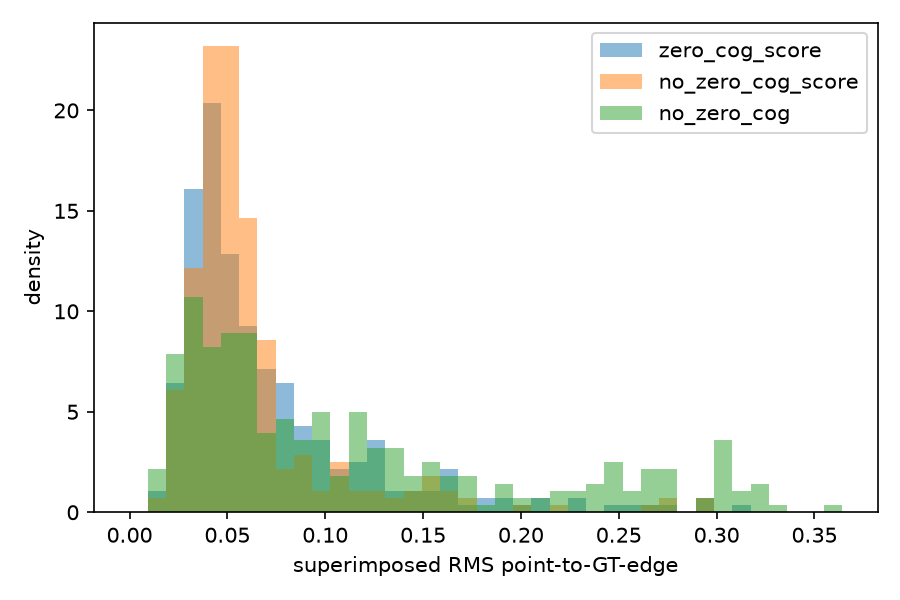
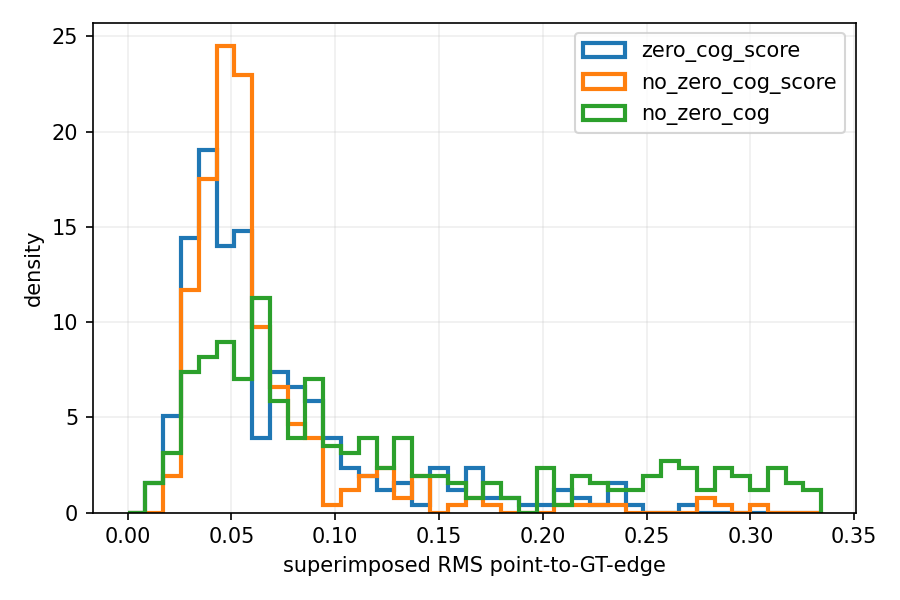
Refactor device management and enhance progress tracking in shape evaluation and training scripts
- Introduced a new `device.py` module for centralized device management.
- Updated various scripts to utilize `get_default_device()` for consistent device selection.
- Enhanced progress tracking in `evaluate_shape.py` and `train.py` with `tqdm` for better user feedback during computations.
- Adjusted triangle residual calculations and visualizations to reflect updated metrics.

diff --git a/src/evaluate_shape.py b/src/evaluate_shape.py
@@ -7,12 +7,14 @@ import torch
 import matplotlib.pyplot as plt
 from scipy.spatial import ConvexHull
 from scipy.stats import ks_2samp, wasserstein_distance
+from tqdm.auto import tqdm
  
 import lightning as L  # noqa: F401  (kept for parity with training env)
 from src.lit.litGNN import LitVanillaGNN
 from src.diffusion import TDMDiffusion
 from src.nn.vanillaGNN import TDM_VanillaGNN  # noqa: F401
 import src.data as data
+from src.device import get_default_device, module_device
  
  
 # ---------------------------------------------------------------------------
@@ -174,17 +176,19 @@ def triangle_residual(p, L):
     return d.mean()
  
  
-def residuals(clouds, L, name=""):
-    r = np.array([triangle_residual(c, L) for c in clouds])
+def residuals(clouds, L, name="", show_progress=False):
+    cloud_iter = tqdm(clouds, desc=f"{name} residuals", leave=False) if show_progress else clouds
+    r = np.array([triangle_residual(c, L) for c in cloud_iter])
     finite = np.isfinite(r)
     print(f"  [{name}] dropped {(~finite).sum()}/{len(r)} as cell-spanning/invalid")
     return r[finite]
 
 
-def paired_superimposed_rms(gen_clouds, gt_clouds, L, name="", n_angles=180):
+def paired_superimposed_rms(gen_clouds, gt_clouds, L, name="", n_angles=180, show_progress=False):
     n = min(len(gen_clouds), len(gt_clouds))
+    idx_iter = tqdm(range(n), desc=f"{name} superimposed RMS", leave=False) if show_progress else range(n)
     r = np.array([superimposed_rms_point_to_edge(gen_clouds[i], gt_clouds[i], L, n_angles=n_angles)
-                  for i in range(n)])
+                  for i in idx_iter])
     finite = np.isfinite(r)
     print(f"  [{name}] superimposed dropped {(~finite).sum()}/{len(r)} invalid pairs")
     return r[finite]
@@ -196,7 +200,8 @@ def paired_superimposed_rms(gen_clouds, gt_clouds, L, name="", n_angles=180):
 if __name__ == "__main__":
  
     # ---- load checkpoints --------------------------------------------------
-    DEVICE = torch.device("cuda" if torch.cuda.is_available() else "cpu")
+    DEVICE = get_default_device()
+    print(f"[device] selected default device: {DEVICE}")
 
     gnn_no_zero_cog = LitVanillaGNN.load_from_checkpoint(
         "checkpoints/20260623_173456/ptiGNN_shapes_triangle_no_zero_cog/last.ckpt",
@@ -236,6 +241,13 @@ if __name__ == "__main__":
         dim=2, integrator_type="Euler",
         simplified_param=True, zero_cog=True, zero_cog_score=False,
     ).to(DEVICE)
+
+    print(f"[device] gnn_no_zero_cog: {module_device(gnn_no_zero_cog)}")
+    print(f"[device] gnn_zero_cog_score: {module_device(gnn_zero_cog_score)}")
+    print(f"[device] gnn_no_zero_cog_score: {module_device(gnn_no_zero_cog_score)}")
+    print(f"[device] tdm_model: {module_device(tdm_model)}")
+    print(f"[device] tdm_model_no_zero_cog_score: {module_device(tdm_model_no_zero_cog_score)}")
+    print(f"[device] tdm_model_no_zero_cog: {module_device(tdm_model_no_zero_cog)}")
  
     # ---- sample both groups ------------------------------------------------
     graph_num = 300
@@ -254,16 +266,26 @@ if __name__ == "__main__":
         predictor_corrector_n_steps=20,
         only_correct_vt=True,
         tau=1e-2,
+        verbose_device=True,
     )
  
     (ft_list, vt_list, t_list) = tdm_model.sample_backward_graph(
-        tdm_score_fn=gnn_zero_cog_score.forward_from_data, **sample_kwargs
+        tdm_score_fn=gnn_zero_cog_score.forward_from_data,
+        progress=True,
+        progress_desc="sample zero_cog_score",
+        **sample_kwargs
     )
     (ft_list_no, vt_list_no, t_list_no) = tdm_model_no_zero_cog_score.sample_backward_graph(
-        tdm_score_fn=gnn_no_zero_cog_score.forward_from_data, **sample_kwargs
+        tdm_score_fn=gnn_no_zero_cog_score.forward_from_data,
+        progress=True,
+        progress_desc="sample no_zero_cog_score",
+        **sample_kwargs
     )
     (ft_list_no_zero_cog, vt_list_no_zero_cog, t_list_no_zero_cog) = tdm_model_no_zero_cog.sample_backward_graph(
-        tdm_score_fn=gnn_no_zero_cog.forward_from_data, **sample_kwargs
+        tdm_score_fn=gnn_no_zero_cog.forward_from_data,
+        progress=True,
+        progress_desc="sample no_zero_cog",
+        **sample_kwargs
     )
  
     f0 = ft_list[-1]                  # generated shapes at t = 0
@@ -276,7 +298,7 @@ if __name__ == "__main__":
     # the model is sampled in, and every source shares one period L = 2*pi.
     gt_ds = data.Shapes_Dataset(shape_types=["triangle"], num_points=64, seed=0)
     gt_clouds = []
-    for i in range(min(graph_num, len(gt_ds))):
+    for i in tqdm(range(min(graph_num, len(gt_ds))), desc="prepare GT clouds", leave=False):
         pts, _corner_mask = gt_ds[i]                        # (N, 2) in [0, 1)
         gt_clouds.append(_to_np(data.pos_to_angle(pts)))    # -> [-pi, pi)
  
@@ -287,13 +309,13 @@ if __name__ == "__main__":
     g_b = split_graphs(f0_no_zero_cog_score, graph_nodes)  # zero_cog_score = False
     g_c = split_graphs(f0_no_zero_cog, graph_nodes)  # zero_cog = False
     print("=== validity (drop) counts ===")
-    r_a = residuals(g_a, L, name="zero_cog_score")
-    r_b = residuals(g_b, L, name="no_zero_cog_score")
-    r_c = residuals(g_c, L, name="no_zero_cog")
-    r_gt = residuals(gt_clouds, L, name="GT")
-    s_a = paired_superimposed_rms(g_a, gt_clouds, L, name="zero_cog_score")
-    s_b = paired_superimposed_rms(g_b, gt_clouds, L, name="no_zero_cog_score")
-    s_c = paired_superimposed_rms(g_c, gt_clouds, L, name="no_zero_cog")
+    r_a = residuals(g_a, L, name="zero_cog_score", show_progress=True)
+    r_b = residuals(g_b, L, name="no_zero_cog_score", show_progress=True)
+    r_c = residuals(g_c, L, name="no_zero_cog", show_progress=True)
+    r_gt = residuals(gt_clouds, L, name="GT", show_progress=True)
+    s_a = paired_superimposed_rms(g_a, gt_clouds, L, name="zero_cog_score", show_progress=True)
+    s_b = paired_superimposed_rms(g_b, gt_clouds, L, name="no_zero_cog_score", show_progress=True)
+    s_c = paired_superimposed_rms(g_c, gt_clouds, L, name="no_zero_cog", show_progress=True)
  
     # ---- report ------------------------------------------------------------
     report_lines = []
@@ -334,12 +356,13 @@ if __name__ == "__main__":
     # ---- one-glance plot ---------------------------------------------------
     plt.figure(figsize=(6, 4))
     bins = np.linspace(0, max(r_a.max(), r_b.max(), r_c.max(), r_gt.max()), 40)
-    # plt.hist(r_gt, bins, alpha=.5, density=True, label="GT")
-    plt.hist(r_a, bins, alpha=.5, density=True, label="zero_cog_score")
-    plt.hist(r_b, bins, alpha=.5, density=True, label="no_zero_cog_score")
-    plt.hist(r_c, bins, alpha=.5, density=True, label="no_zero_cog")
+    # Outline-style histograms are easier to compare when distributions overlap.
+    plt.hist(r_a, bins, density=True, histtype="step", linewidth=2, label="zero_cog_score")
+    plt.hist(r_b, bins, density=True, histtype="step", linewidth=2, label="no_zero_cog_score")
+    plt.hist(r_c, bins, density=True, histtype="step", linewidth=2, label="no_zero_cog")
     plt.xlabel("triangle-fit residual")
     plt.ylabel("density")
+    plt.grid(alpha=0.2)
     plt.legend()
     plt.tight_layout()
     plt.savefig("triangle_residual_compare.png", dpi=150)
@@ -347,11 +370,12 @@ if __name__ == "__main__":
 
     plt.figure(figsize=(6, 4))
     bins_s = np.linspace(0, max(s_a.max(), s_b.max(), s_c.max()), 40)
-    plt.hist(s_a, bins_s, alpha=.5, density=True, label="zero_cog_score")
-    plt.hist(s_b, bins_s, alpha=.5, density=True, label="no_zero_cog_score")
-    plt.hist(s_c, bins_s, alpha=.5, density=True, label="no_zero_cog")
+    plt.hist(s_a, bins_s, density=True, histtype="step", linewidth=2, label="zero_cog_score")
+    plt.hist(s_b, bins_s, density=True, histtype="step", linewidth=2, label="no_zero_cog_score")
+    plt.hist(s_c, bins_s, density=True, histtype="step", linewidth=2, label="no_zero_cog")
     plt.xlabel("superimposed RMS point-to-GT-edge")
     plt.ylabel("density")
+    plt.grid(alpha=0.2)
     plt.legend()
     plt.tight_layout()
     plt.savefig("triangle_superimposed_rms_compare.png", dpi=150)

diff --git a/src/diffusion.py b/src/diffusion.py
@@ -14,6 +14,8 @@ from torch_geometric.data import Data
 from torch_geometric.loader import DataLoader as PyGDataLoader
 from torch_geometric.utils import scatter
 from src.data import make_random_graph, scatter_center
+from src.device import module_device
+from tqdm.auto import tqdm
 
 
 
@@ -625,6 +627,9 @@ class TDMDiffusion(BaseDiffusion):
         vT_prior_scale: float = 1.0,
         annealing_gamma: float = 1.0,
         debug: bool = False,
+        verbose_device: bool = False,
+        progress: bool = False,
+        progress_desc: Optional[str] = None,
         seed: Optional[int] = None,
         **kwargs
     ):
@@ -668,27 +673,41 @@ class TDMDiffusion(BaseDiffusion):
 
         assert fT_prior_kw in ["stdGauss", "uniform"]
         assert vT_prior_kw in ["stdGauss", "uniform"]
-        if torch.cuda.is_available():
-            device = "cuda"
-        else:
-            device = "cpu"
+        device = module_device(self)
         dtype = torch.float32
         if seed is not None:
             generator = torch.Generator().manual_seed(seed)
         else:
             generator = None
 
-        graph_list = [make_random_graph(num_nodes, data_dim, scale_range=(-torch.pi, torch.pi), seed=seed, device=device) for num_nodes in graph_nodes]
+        graph_list = [
+            make_random_graph(
+                num_nodes,
+                data_dim,
+                scale_range=(-torch.pi, torch.pi),
+                seed=seed,
+                device=device,
+            )
+            for num_nodes in graph_nodes
+        ]
         total_nodes = sum(num_nodes for num_nodes in graph_nodes)
         loader = PyGDataLoader(graph_list, batch_size=len(graph_nodes), shuffle=False)
         graph_T = next(iter(loader))
+        graph_T = graph_T.to(device)
 
         if vT_prior_kw == "stdGauss":
             vT = torch.randn(size=(total_nodes, data_dim), device=device, dtype=dtype, generator=generator) * vT_prior_scale
         else:
             vT = torch.rand(size=(total_nodes, data_dim), device=device, dtype=dtype, generator=generator)
 
-        
+        if verbose_device:
+            print(
+                "[sample_backward_graph] "
+                f"module_device={module_device(self)}, "
+                f"graph_x_device={graph_T.x.device}, "
+                f"graph_batch_device={graph_T.batch.device}, "
+                f"vT_device={vT.device}"
+            )
 
         if self.zero_cog:
             vT = scatter_center(vT, graph_T.batch)
@@ -718,7 +737,16 @@ class TDMDiffusion(BaseDiffusion):
         t_list.append(float(t_reverse_list[0, 0, 0].item()))
         sigma_list.append(float(self.sde.sigma_t(t_reverse_list[:, 0])[0, 0].item()))
 
-        for i in range(n_steps - 1):
+        step_iter = range(n_steps - 1)
+        if progress:
+            step_iter = tqdm(
+                step_iter,
+                total=n_steps - 1,
+                desc=progress_desc or "reverse steps",
+                leave=False,
+            )
+
+        for i in step_iter:
             # per-graph time: (num_graphs, 1)
             t_g = t_reverse_list[:, i, :]       # (num_graphs, 1)
             t_g_next = t_reverse_list[:, i + 1, :]

diff --git a/src/litTrain/trainLitGNN.py b/src/litTrain/trainLitGNN.py
@@ -13,6 +13,7 @@ from lightning.pytorch.loggers import TensorBoardLogger, WandbLogger
 from lightning.pytorch.callbacks import ModelCheckpoint
 import wandb
 from datetime import datetime
+from src.device import get_default_device, get_lightning_accelerator
 
 pt_invariant = True
 total_time = 2.0
@@ -22,7 +23,8 @@ lr = 1e-3
 base_ds_kw = "triangle"
 # base_ds_kw = "mix"
 
-device = "cuda" if torch.cuda.is_available() else "cpu"
+device = get_default_device()
+accelerator = get_lightning_accelerator(device)
 diffusion_kwargs_no_zero_cog = {
     "t_dist_kw": "uniform",
     "v0_dist_kw": "zero",
@@ -202,7 +204,7 @@ def main():
     trainer_no_zero_cog = L.Trainer(
         logger=wandb_logger_no_zero_cog,
         max_epochs=n_epoch,
-        accelerator="gpu",
+        accelerator=accelerator,
         log_every_n_steps=32,
         callbacks = [checkpoint_callback]
     )
@@ -238,7 +240,7 @@ def main():
     trainer_zero_cog_score = L.Trainer(
         logger=wandb_logger_zero_cog_score,
         max_epochs=n_epoch,
-        accelerator="gpu",
+        accelerator=accelerator,
         log_every_n_steps=32,
         callbacks = [checkpoint_callback]
     )
@@ -274,7 +276,7 @@ def main():
     trainer_no_zero_cog_score = L.Trainer(
         logger=wandb_logger_no_zero_cog_score,
         max_epochs=n_epoch,
-        accelerator="gpu",
+        accelerator=accelerator,
         log_every_n_steps=32,
         callbacks = [checkpoint_callback]
     )

diff --git a/src/device.py b/src/device.py
@@ -1,0 +1,29 @@
+import torch
+
+
+def get_default_device() -> torch.device:
+    """Return the best available torch device."""
+    if torch.cuda.is_available():
+        return torch.device("cuda")
+    if torch.backends.mps.is_available():
+        return torch.device("mps")
+    return torch.device("cpu")
+
+
+def get_lightning_accelerator(device: torch.device | str) -> str:
+    """Map a torch device to Lightning accelerator name."""
+    resolved = torch.device(device)
+    if resolved.type == "cuda":
+        return "gpu"
+    if resolved.type == "mps":
+        return "mps"
+    return "cpu"
+
+
+def module_device(module: torch.nn.Module) -> torch.device:
+    """Best-effort device lookup from module parameters or buffers."""
+    for param in module.parameters():
+        return param.device
+    for buffer in module.buffers():
+        return buffer.device
+    return get_default_device()

diff --git a/src/trainGraph.py b/src/trainGraph.py
@@ -7,6 +7,7 @@ import matplotlib.pyplot as plt
 from src.data import Checkerboard_Dataset, TorusLieWrapper, AngleTorusWrapper, Pacman_Dataset, Shapes_Dataset, PyGGraphWrapper
 from src.nn.vanillaGNN import TDM_VanillaGNN
 from src.diffusion import TDMDiffusion
+from src.device import get_default_device
 from torch_geometric.loader import DataLoader as PyGDataLoader
 
 def time_loss_weight(t, total_time):
@@ -159,7 +160,7 @@ def main():
     # -----------------------
     # Config (simple defaults)
     # -----------------------
-    device = "cuda" if torch.cuda.is_available() else "cpu"
+    device = get_default_device()
     batch_size = 32
     n_epoch = 200
     lr = 1e-3

diff --git a/src/train.py b/src/train.py
@@ -7,6 +7,7 @@ import matplotlib.pyplot as plt
 from src.data import Checkerboard_Dataset, TorusLieWrapper, AngleTorusWrapper, Pacman_Dataset
 from src.scoreNN import TDM_SimpleScoreMLP
 from src.diffusion import TDMDiffusion
+from src.device import get_default_device
 
 
 def time_loss_weight(t, total_time):
@@ -148,7 +149,7 @@ def main():
     # -----------------------
     # Config (simple defaults)
     # -----------------------
-    device = "cuda" if torch.cuda.is_available() else "cpu"
+    device = get_default_device()
     batch_size = 512
     n_epoch = 2000
     lr = 8e-4

diff --git a/src/data.py b/src/data.py
@@ -76,6 +76,10 @@ def wrapped_diff(a, b):
 
 # scatter center the data by subgraph's mean
 def scatter_center(x, idx):
+    if idx.device != x.device:
+        idx = idx.to(x.device)
+    if idx.dtype != torch.long:
+        idx = idx.long()
     centers = scatter(x, idx, dim=0, reduce="mean")
     centers = centers[idx]
     return x - centers
